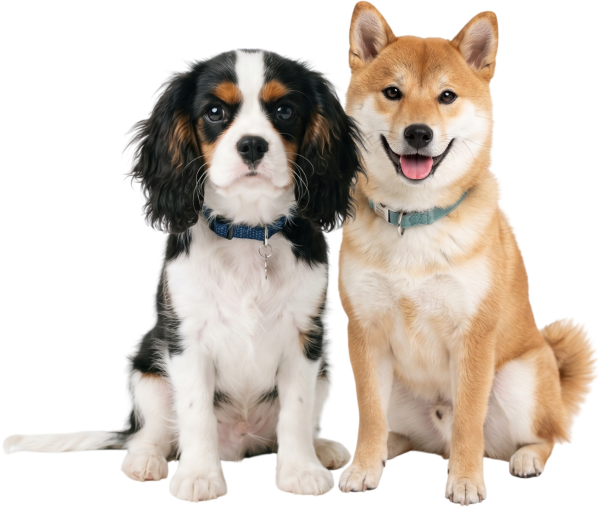
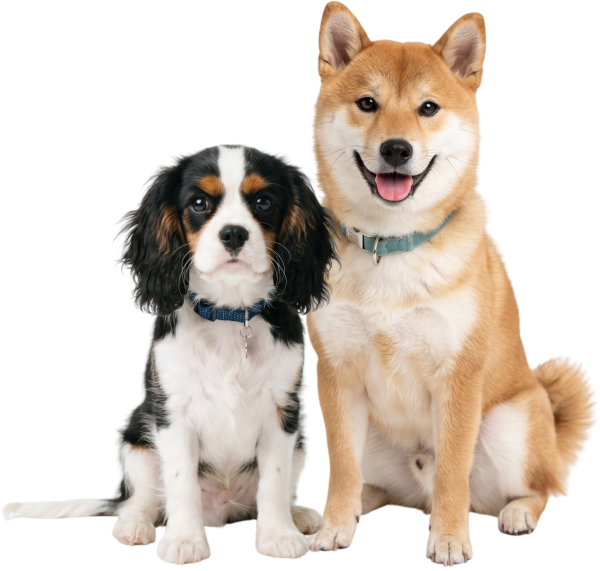
responsive

diff --git a/src/commponent/Footer.jsx b/src/commponent/Footer.jsx
@@ -47,7 +47,7 @@ const Footer = () => {
 
           {/* LOGO */}
           <div>
-            <img src="/logochomp.white.png"   className="w-24 md:w-36 object-contain cursor-pointer"/>
+            <img src="/logochomp.white.png"   className="w-30 md:w-36 object-contain cursor-pointer  md:pb-0  pb-10"/>
           </div>
               
               <div> <h1 className=" text-3xl font-bold">Our food is prepared and delivered with ❤︎ in Bhopal</h1></div>
@@ -64,7 +64,7 @@ const Footer = () => {
         <div 
           className="
             grid grid-cols-1 md:grid-cols-3
-            gap-50
+            md:gap-50 gap-10
             pt-14
           "
         >
@@ -72,7 +72,7 @@ const Footer = () => {
           {/* LEFT TEXT */}
           <div >
 
-            <h2 className="text-3xl font-bold leading-tight">
+            <h2 className="text-3xl font-bold leading-tight ml-7">
             Bhopal's first  <br />
                fresh food kitchen<br />
               for pets
@@ -93,13 +93,13 @@ const Footer = () => {
           <div>
 
            
-            <ul className="space-y-3 text-white cursor-pointer">
-              <li className=" font-bold text-lg mb-5">
+            <ul className="space-y-3 text-white cursor-pointer flex flex-col items-center">
+              <li className=" font-bold md:text-lg mb-5 text-2xl">
               Quick Links
 
 </li>
 
-              <li><a href="/shop">
+              <li><a href="/shop" className="text-[25px] md:text-[15px]">
               Menu
 
 </a></li>
@@ -107,15 +107,15 @@ const Footer = () => {
 
 
 
-              <li><a href="/work">
+              <li><a href="/work" className="text-[25px] md:text-[15px]">
               How it works
 
 </a></li>
-              <li><a href="/contact">
+              <li><a href="/contact"   className="text-[25px] md:text-[15px]">  
               Contact us
 
 </a></li>
-<li className=" ">
+<li className="text-[25px] md:text-[15px]">
 <a
   href="/Chomp_PrivacyPolicy.pdf"
   target="_blank"
@@ -125,7 +125,7 @@ const Footer = () => {
 </a>
 
 </li>
-<li className=" ">
+<li className="text-[25px] md:text-[15px]">
 <a
     href="/Chomp_TermsofUse.pdf"
     target="_blank"
@@ -140,31 +140,14 @@ const Footer = () => {
 
           </div>
 
-          {/* COMMUNITY */}
-          {/* <div>
-
-            <h3 className="font-bold text-lg mb-5">
-              COMMUNITY
-            </h3>
-
-            <ul className="space-y-3 text-white">
-              <li>News & Stories</li>
-              <li>Recipes</li>
-              <li>Our Story</li>
-              <li>Pet Wellness</li>
-              <li>Blogs</li>
-            </ul>
-
-          </div> */}
-
           {/* GET IN TOUCH */}
-          <div>
+          <div className=" flex-col items-center flex">
 
             <h3 className="font-bold text-lg mb-5">
                Get In Touch
             </h3>
 
-            <ul className="space-y-3 text-white">
+            <ul className="space-y-3 text-white   ml-20">
             
             
 
@@ -189,7 +172,7 @@ const Footer = () => {
  
 
 
-  <p className="text-sm text-white pl-2">
+  <p className=" pl-2">
   [email redacted]
   </p>
 </div>

diff --git a/src/pages/Contact.jsx b/src/pages/Contact.jsx
@@ -60,7 +60,7 @@ const handleSubmit = async (e) => {
 
     setSubmitted(true);
 
-    alert("You're in! We'll get in touch soon. Your dog is about to have a very good day.");
+   
 
   } catch (error) {
 
@@ -110,6 +110,7 @@ const handleSubmit = async (e) => {
           <input
   type="text"
   placeholder="What do we call you?"
+  required
   value={name}
   onChange={(e) => setName(e.target.value)}
   className="
@@ -120,7 +121,7 @@ const handleSubmit = async (e) => {
     placeholder:text-sm
     focus:border-[#d97063]
   "
-  required
+
 />
 
         </div>
@@ -135,6 +136,7 @@ const handleSubmit = async (e) => {
           <input
             type="text"
             placeholder="The real star of the show"
+            required
             value={dogname}
             onChange={(e) => setDogname(e.target.value)}
             className="
@@ -160,6 +162,7 @@ const handleSubmit = async (e) => {
             type="text"
             placeholder="How old?"
             value={age}
+            required
             onChange={(e) => setAge(e.target.value)}
             className="
               w-full
@@ -208,6 +211,7 @@ const handleSubmit = async (e) => {
   type="tel"
   placeholder="No bots! Real humans respond"
   value={phone}
+  required
   onChange={(e) => setPhone(e.target.value)}
   className="
     w-full
@@ -217,7 +221,7 @@ const handleSubmit = async (e) => {
     placeholder:text-sm
     focus:border-[#d97063]
   "
-  required
+
 />
         </div>
 
@@ -231,6 +235,7 @@ const handleSubmit = async (e) => {
           <input
   type="email"
   placeholder="(Optional)"
+
   value={email}
   onChange={(e) => setEmail(e.target.value)}
   className="
@@ -259,6 +264,7 @@ const handleSubmit = async (e) => {
 
             value={address}
             onChange={(e) => setAddress(e.target.value)}
+            required
             className="
               w-full
               border border-gray-200
@@ -282,6 +288,7 @@ const handleSubmit = async (e) => {
   type="text"
   placeholder="Any questions or just looking to find out more?"
   value={message}
+  
   onChange={(e) => setMessage(e.target.value)}
   className="
     w-full
@@ -326,13 +333,13 @@ const handleSubmit = async (e) => {
 
     ) : (
 
-      <div className="text-center py-16">
+      <div className="text-center py-16  mt-20">
 
-        <h3 className="text-2xl font-bold text-green-600 mb-4">
+        <h3 className="text-2xl font-bold text-[#d9766a] mb-4">
           You're in!
         </h3>
 
-        <p className="text-gray-600">
+        <p className="">
           We'll get in touch soon.
           Your dog is about to have a very good day.
         </p>

diff --git a/src/commponent/ProductAdvantages.jsx b/src/commponent/ProductAdvantages.jsx
@@ -59,10 +59,10 @@ export default function ProductAdvantages() {
          */}
    
 
-        <p className="text-black mt-4 max-w-xl mx-auto text-lg">
+        <p className="text-black  mt-4 max-w-xl mx-auto text-lg   md:pl-0 md:pr-0  pl-5 pr-5">
         Because your dog can’t read ingredient labels. But we can!
         </p>
-        <p className="text-black mt-1  mx-auto text-lg">
+        <p className="text-black mt-1  mx-auto text-lg  md:pl-0 md:pr-0  pl-5 pr-5">
 Our Chomp meals are carefully crafted to support better digestion, shinier coats and higher energy levels. 
 
 </p>
@@ -78,7 +78,7 @@ Our Chomp meals are carefully crafted to support better digestion, shinier coats
         <img
           src={item.icon}
           alt={item.title}
-          className="w-25 h-25 object-contain "
+          className=" md:w-25  md:h-25   h-[100px] w-[300px]  mt-10  md:m-0 object-contain  "
         />
       </div>
 
@@ -107,7 +107,7 @@ Our Chomp meals are carefully crafted to support better digestion, shinier coats
                <img
     src={item.icon}
      alt={item.title}
-  className="w-25 h-25 object-contain"
+  className="w-25 h-25  md:w-25  md:h-25   h-[100px] w-[300px]  mt-10  md:m-0 object-contain"
 />
               </div>
 

diff --git a/src/commponent/FeaturedProducts.jsx b/src/commponent/FeaturedProducts.jsx
@@ -3,7 +3,7 @@ import React from "react";
 export default function FeaturedProducts() {
   return (
    <>
-    <div className="w-screen bg-[#fff] overflow-hidden relative pt-12 md:pt-15">
+    <div className="w-screen bg-[#fff] overflow-hidden relative md:pt-12 md:pt-15">
 
 {/* SECTION */}
 <section
@@ -22,7 +22,7 @@ export default function FeaturedProducts() {
   <div
     className="
       flex
-      justify-center md:justify-start
+      justify-center md:justify-start mr-10 
       order-1
     "
   >
@@ -69,7 +69,7 @@ export default function FeaturedProducts() {
       </p>
 
       {/* PRODUCT GRID */}
-      <div className="grid grid-cols-1 sm:grid-cols-2 gap-y-8 gap-x-6 mt-4">
+      <div className="grid grid-cols-1 sm:grid-cols-2 gap-y-8 gap-x-6 mt-4 ">
 
         {/* CARD 1 */}
         <div className="flex flex-col items-center md:items-start">

diff --git a/src/commponent/Story.jsx b/src/commponent/Story.jsx
@@ -11,7 +11,7 @@ const Story = () => {
      
 
 
-<p className="   text-lg md:text-xl ml-40 font-semibold text-black pt-3">
+<p className="   text-lg md:text-xl  md:ml-40 md:mt-0   font-semibold text-black pt-7">
   Meet Jiya,  our Head of Quality Control
 
   </p>
@@ -24,7 +24,7 @@ const Story = () => {
       md:w-[520px]
       lg:w-[450px]
       xl:w-[400px]
-      object-contain  md:ml-25 md:mt-9
+      object-contain  md:ml-25 md:mt-9 md:mr-0  mr-6 mt-5
     "
   />
 
@@ -33,7 +33,7 @@ const Story = () => {
 </div>
 
 {/* TEXT */}
-<div className="w-full lg:w-[52%] max-w-2xl pr-27 mt-5  ">
+<div className="w-full lg:w-[52%] max-w-2xl  md:pr-27 mt-5  md:pl-0 pl-10  md:pr-0 pr-10">
 
   <h2 className="text-4xl md:text-5xl font-bold  font-oswald  text-[#6687d8]">
     How Chomp got started

diff --git a/src/commponent/Howit.jsx b/src/commponent/Howit.jsx
@@ -3,7 +3,7 @@ import { Link } from "react-router-dom";
 const Howit = () => {
   return (
     <>
-    <div className='flex  flex-col  lg:flex-row items- gap-3  pt-20  px-15 '>
+    <div className='flex  flex-col  lg:flex-row items- gap-3  pt-20  md:px-15  pr-10 '>
     
     
     <div className=' w-[full] lg:w-[47%]  pl-17    mt-5'>
@@ -24,7 +24,7 @@ Please  note  we cook fresh each day.
 
 
 
-<div className="mt-8 flex flex-col items-center md:items-start ">
+<div className="mt-8 flex flex-col items-center md:items-start mr-10  pb-4 md:pb-0 md:mr-0">
 
 <Link
   to="/work"

diff --git a/src/commponent/Navbar.jsx b/src/commponent/Navbar.jsx
@@ -30,7 +30,7 @@ export default function Navbar() {
 
   return (
     <header
-      className={`z-50 flex items-center gap-[285px] px-4 md:px-16 lg:px-[80px] h-[70px] md:h-[80px] font-oswald text-black w-full transition-all duration-500 bg-white ${
+      className={`z-50 flex items-center gap-50 md:gap-[285px] px-4 md:px-16 lg:px-[80px] h-[70px] md:h-[80px] font-oswald text-black w-full transition-all duration-500 bg-white ${
         fixedNav ? "fixed top-0 left-0 shadow-md" : "absolute top-0 left-0"
       } ${show ? "translate-y-0" : "-translate-y-full"}`}
     >
@@ -67,7 +67,7 @@ export default function Navbar() {
 
       {/* Hamburger (Mobile) */}
       <button
-        className="md:hidden flex flex-col gap-1"
+        className="md:hidden flex flex-col gap-1 "
         onClick={() => setMenuOpen(!menuOpen)}
       >
         <span className="w-6 h-[2px] bg-black"></span>

diff --git a/src/commponent/Testimonials.jsx b/src/commponent/Testimonials.jsx
@@ -71,11 +71,11 @@ export default function Testimonial() {
   />
 </div>
 
-    <h2 className="mt-5 text-xl font-bold ml-17 ">
+    <h2 className="mt-5 text-xl font-bold  md:ml-17 ">
       {testimonials[index].name}
     </h2>
 
-    <p className="text-black  ml-21 ">
+    <p className="text-black  md:ml-21 ">
       {testimonials[index].role}
     </p>
   </div>

diff --git a/src/commponent/HeroPage.jsx b/src/commponent/HeroPage.jsx
@@ -94,7 +94,7 @@ export default function HeroPage() {
   </button>
 </a>
 
-              <p className="text-sm text-black mt-3">
+              <p className="text-sm text-black mt-5  pb-15">
               Trial packs, monthly & fortnightly subscription plans available
 
               </p>